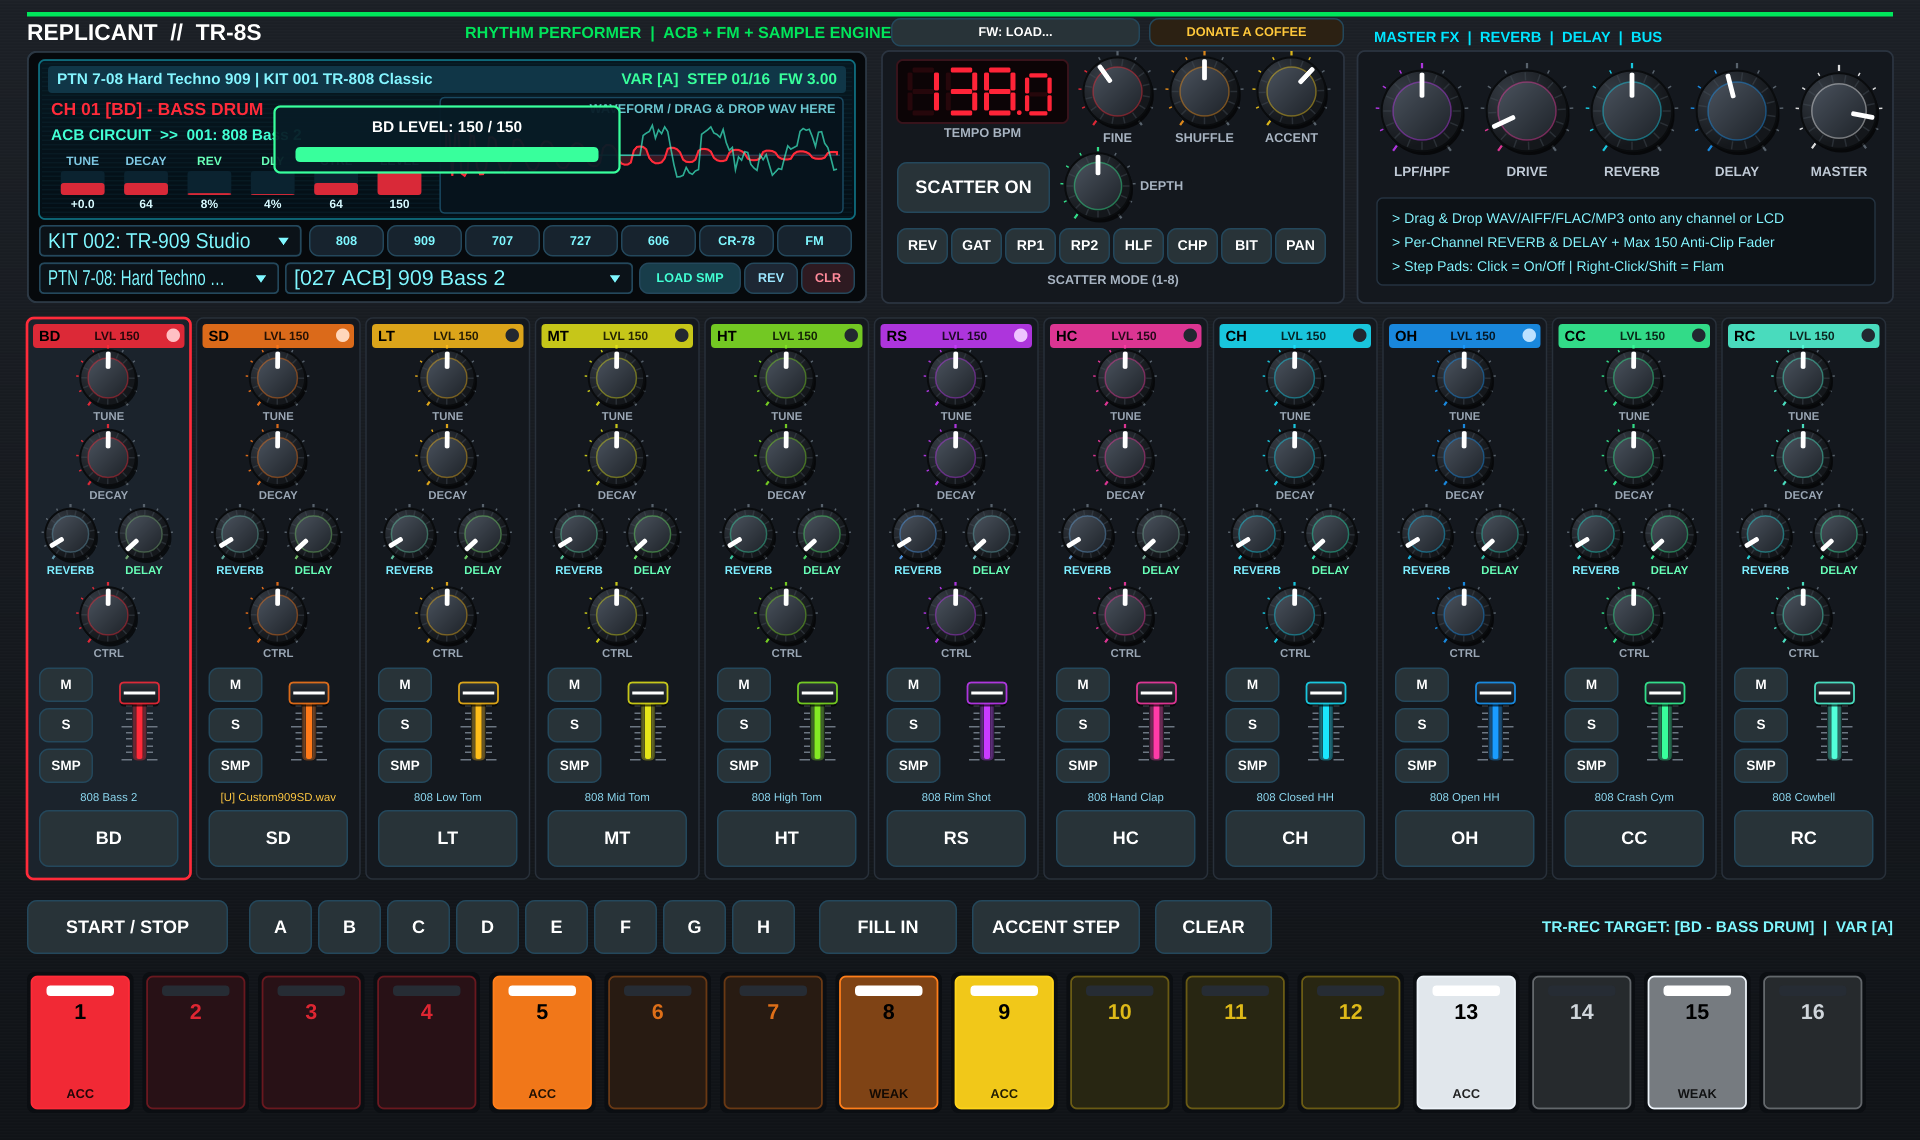
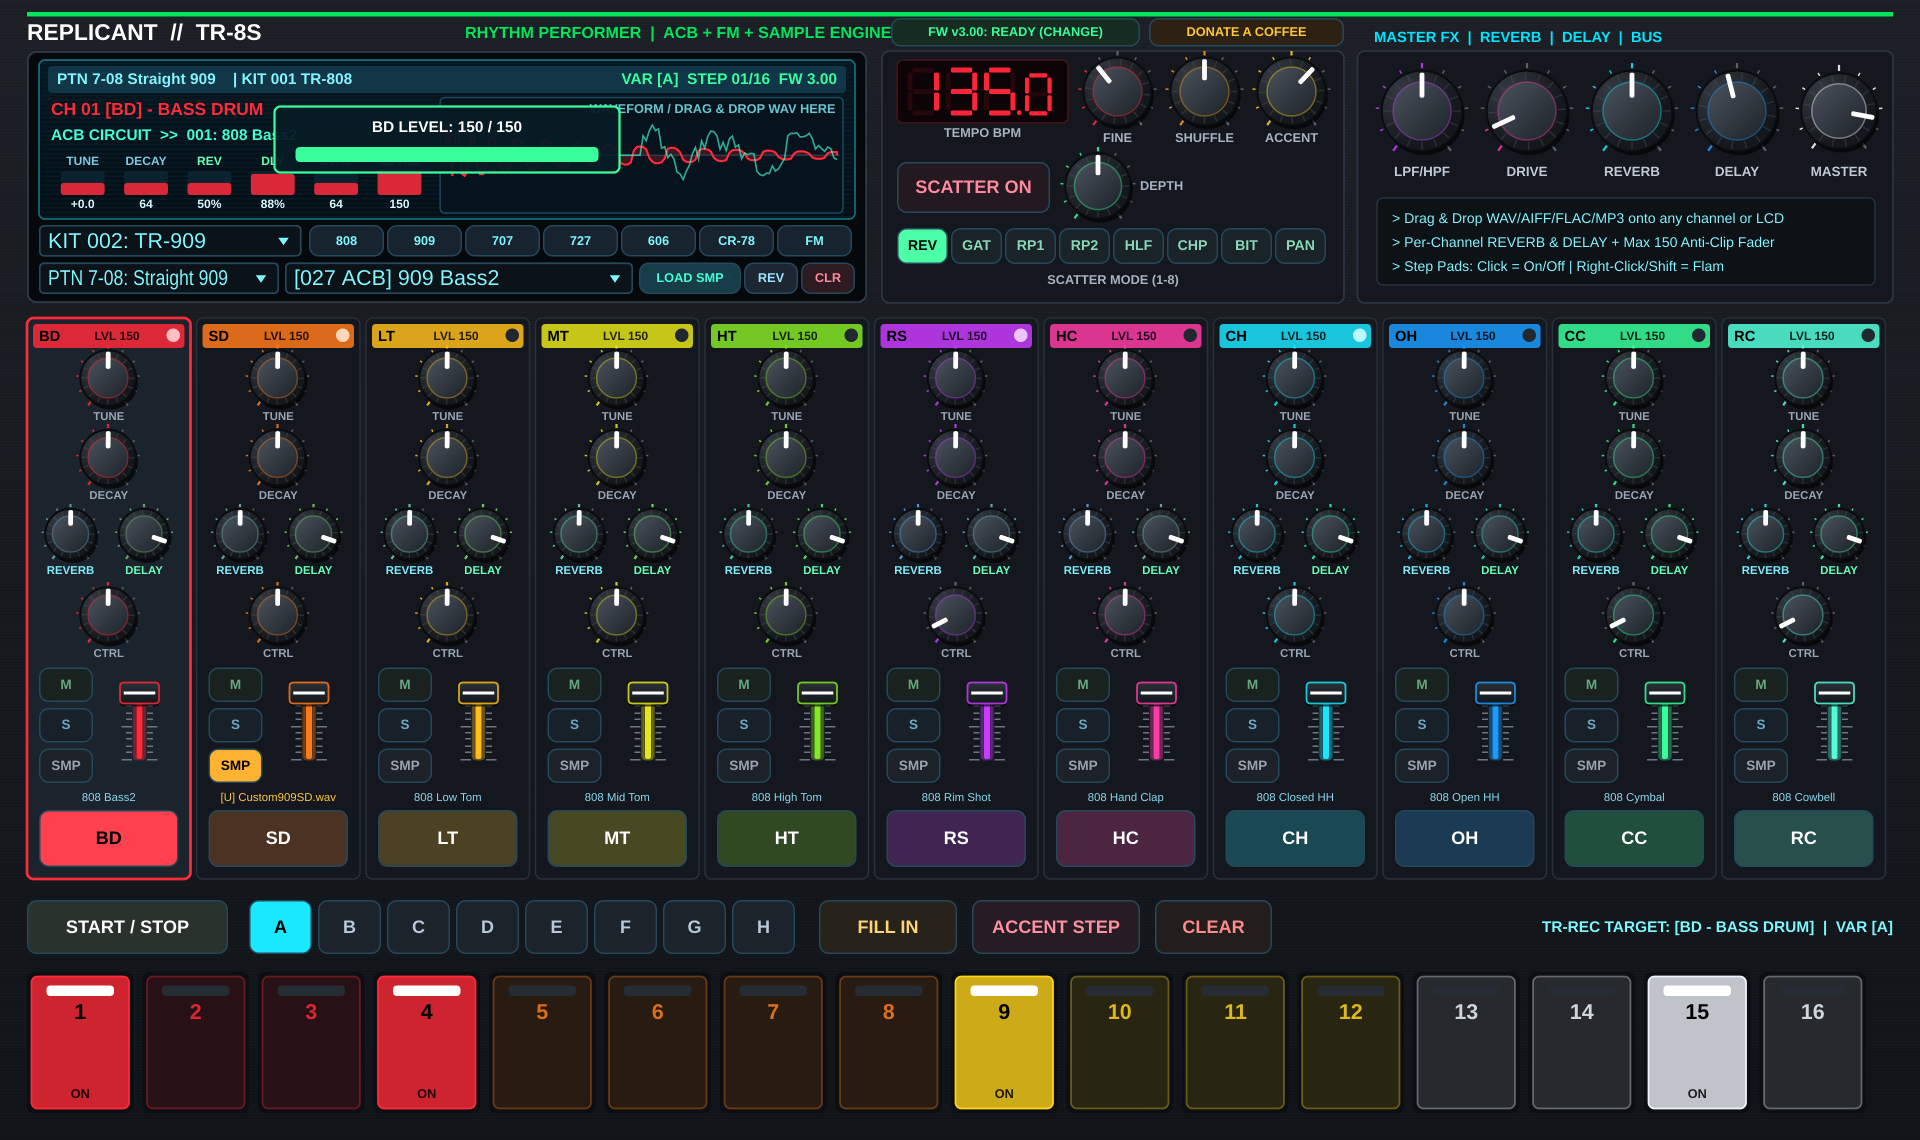
docs: update main README UI preview image with clean LCD, Reverb/Delay knobs and 150 max mixer

diff --git a/tools/generate_snapshot.cpp b/tools/generate_snapshot.cpp
@@ -33,11 +33,11 @@ int main(int argc, char* argv[]) {
         processor.getEngine().loadFactoryKit(1);
     }
 
-    // Program a punchy 138 BPM Hard Techno groove in Variation A
+    // Program classic groove on BD (steps 1, 4, 9, 15) & full techno pattern
     auto& eng = processor.getEngine();
-    eng.setTempoBpm(138.0);
+    eng.setTempoBpm(135.0);
     for (int s = 0; s < 16; ++s) {
-        eng.setStep(0, 0, s, (s % 4 == 0) ? 115 : ((s == 7 || s == 14) ? 60 : 0), 0); // BD
+        eng.setStep(0, 0, s, (s == 0 || s == 3 || s == 8 || s == 14) ? 90 : 0, 0); // BD
         eng.setStep(0, 1, s, (s == 4 || s == 12) ? 105 : ((s == 15) ? 75 : 0), (s == 15) ? 2 : 0); // SD
         eng.setStep(0, 2, s, (s == 3 || s == 11) ? 85 : 0, 0); // LT
         eng.setStep(0, 5, s, (s == 6 || s == 14) ? 90 : 0, 0); // RS
@@ -48,7 +48,15 @@ int main(int argc, char* argv[]) {
         eng.setStep(0, 11, s, (s % 4 == 0 || s == 14) ? 110 : 0, 0); // ACCENT
     }
 
-    // 1. Verify custom sample loading on Channel 1 (SD)
+    // 1. Load TR-909 kit & custom sample on SD before creating editor so LCD menus are 100% synced
+    eng.loadFactoryKit(1);
+    eng.setSelectedChannel(0); // BD selected for main preview
+    eng.setChannelReverbSend(0, 0.25f);
+    eng.setChannelDelaySend(0, 0.18f);
+    eng.setChannelReverbSend(1, 0.68f);
+    eng.setChannelDelaySend(1, 0.42f);
+    processor.syncParametersFromEngineKit();
+
     {
         juce::AudioBuffer<float> testSample(2, 4410);
         for (int i = 0; i < 4410; ++i) {
@@ -60,25 +68,22 @@ int main(int argc, char* argv[]) {
         eng.getVoice(1).setCustomSampleBuffer(testSample, 44100.0, "Custom909SD.wav");
     }
 
-    std::unique_ptr<juce::AudioProcessorEditor> rawEd(processor.createEditor());
-    auto* editor = dynamic_cast<ReplicantTR8SAudioProcessorEditor*>(rawEd.get());
-    editor->setSize(1280, 760);
-
-    // Snapshot 1: TR-909 Studio Kit with SD Reverb popup active & all faders at max 150
-    eng.loadFactoryKit(1);
-    eng.setSelectedChannel(1); // SD
-    eng.setChannelReverbSend(1, 0.68f);
-    eng.setChannelDelaySend(1, 0.42f);
-    processor.syncParametersFromEngineKit();
+    // Trigger voices so oscilloscope and channel peak LEDs are live
     eng.triggerChannel(0, 1.0f, false);
     eng.triggerChannel(1, 0.95f, false);
-    eng.triggerChannel(8, 0.9f, false);
+    eng.triggerChannel(7, 0.85f, false);
     {
         juce::AudioBuffer<float> buf(2, 1024);
         juce::MidiBuffer midi;
         processor.processBlock(buf, midi);
     }
-    processor.notifyParameterPopup("SD REVERB", "68%", 0.68f);
+
+    // Clear any popup so the main README preview shows the full unobstructed LCD with REV, DLY, and LEVEL 150 bars
+    processor.notifyParameterPopup({}, {}, 0.0f);
+
+    std::unique_ptr<juce::AudioProcessorEditor> rawEd(processor.createEditor());
+    auto* editor = dynamic_cast<ReplicantTR8SAudioProcessorEditor*>(rawEd.get());
+    editor->setSize(1280, 760);
 
     juce::File outMain = juce::File::getCurrentWorkingDirectory().getChildFile("assets/replicant_tr8s_preview.png");
     saveEditorSnapshot(*editor, outMain);

diff --git a/Source/PluginEditor.cpp b/Source/PluginEditor.cpp
@@ -244,6 +244,7 @@ ReplicantTR8SAudioProcessorEditor::ReplicantTR8SAudioProcessorEditor(ReplicantTR
     firmwareOverlay.setVisible(!engine.isFirmwareLoaded());
 
     setSize(1280, 760);
+    timerCallback();
     startTimerHz(30);
 }
 

diff --git a/README.md b/README.md
@@ -6,17 +6,17 @@
 </p>
 
 <p align="center">
+  <img src="assets/replicant_tr8s_preview.png?v=2" alt="Replicant TR-8S Hardware UI & LCD Screen (Per-Channel Reverb & Delay + 150 Max Mixer)" width="1000">
+</p>
+
+<p align="center">
   <a href="assets/replicant_tr8s_promo_hardtechno_1080p.mp4">
-    <img src="assets/replicant_tr8s_promo_hardtechno_poster.png" alt="Replicant TR-8S — Hard Techno 1080p Promo (Per-Channel Reverb & Delay + 150 Max Mixer)" width="980">
+    <img src="assets/replicant_tr8s_promo_hardtechno_poster.png?v=2" alt="Replicant TR-8S — Hard Techno 1080p Promo (Per-Channel Reverb & Delay + 150 Max Mixer)" width="980">
   </a>
 </p>
 
 <p align="center">
   <em>▶ Watch the 1080p promo — Hard Techno // Rhythm Performer (English).</em>
-</p>
-
-<p align="center">
-  <img src="assets/replicant_tr8s_preview.png" alt="Replicant TR-8S Hardware UI & LCD Screen" width="1000">
 </p>
 
 <p align="center">
